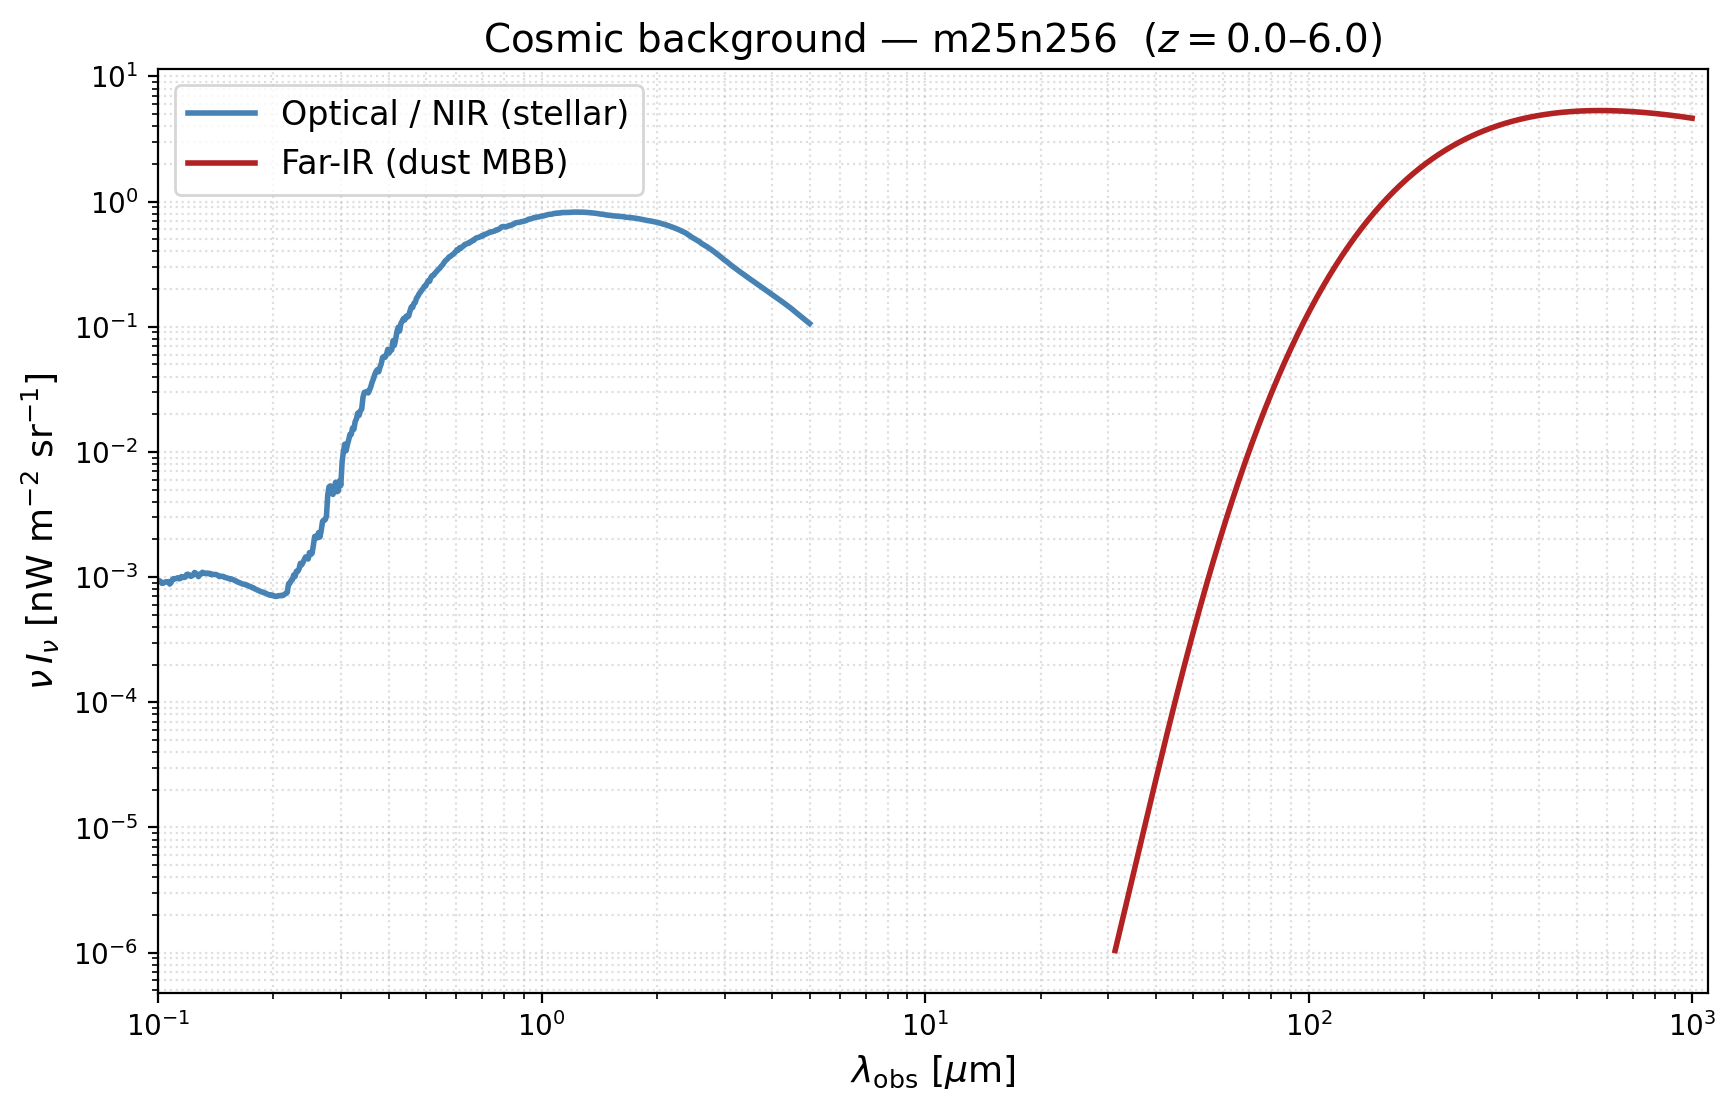
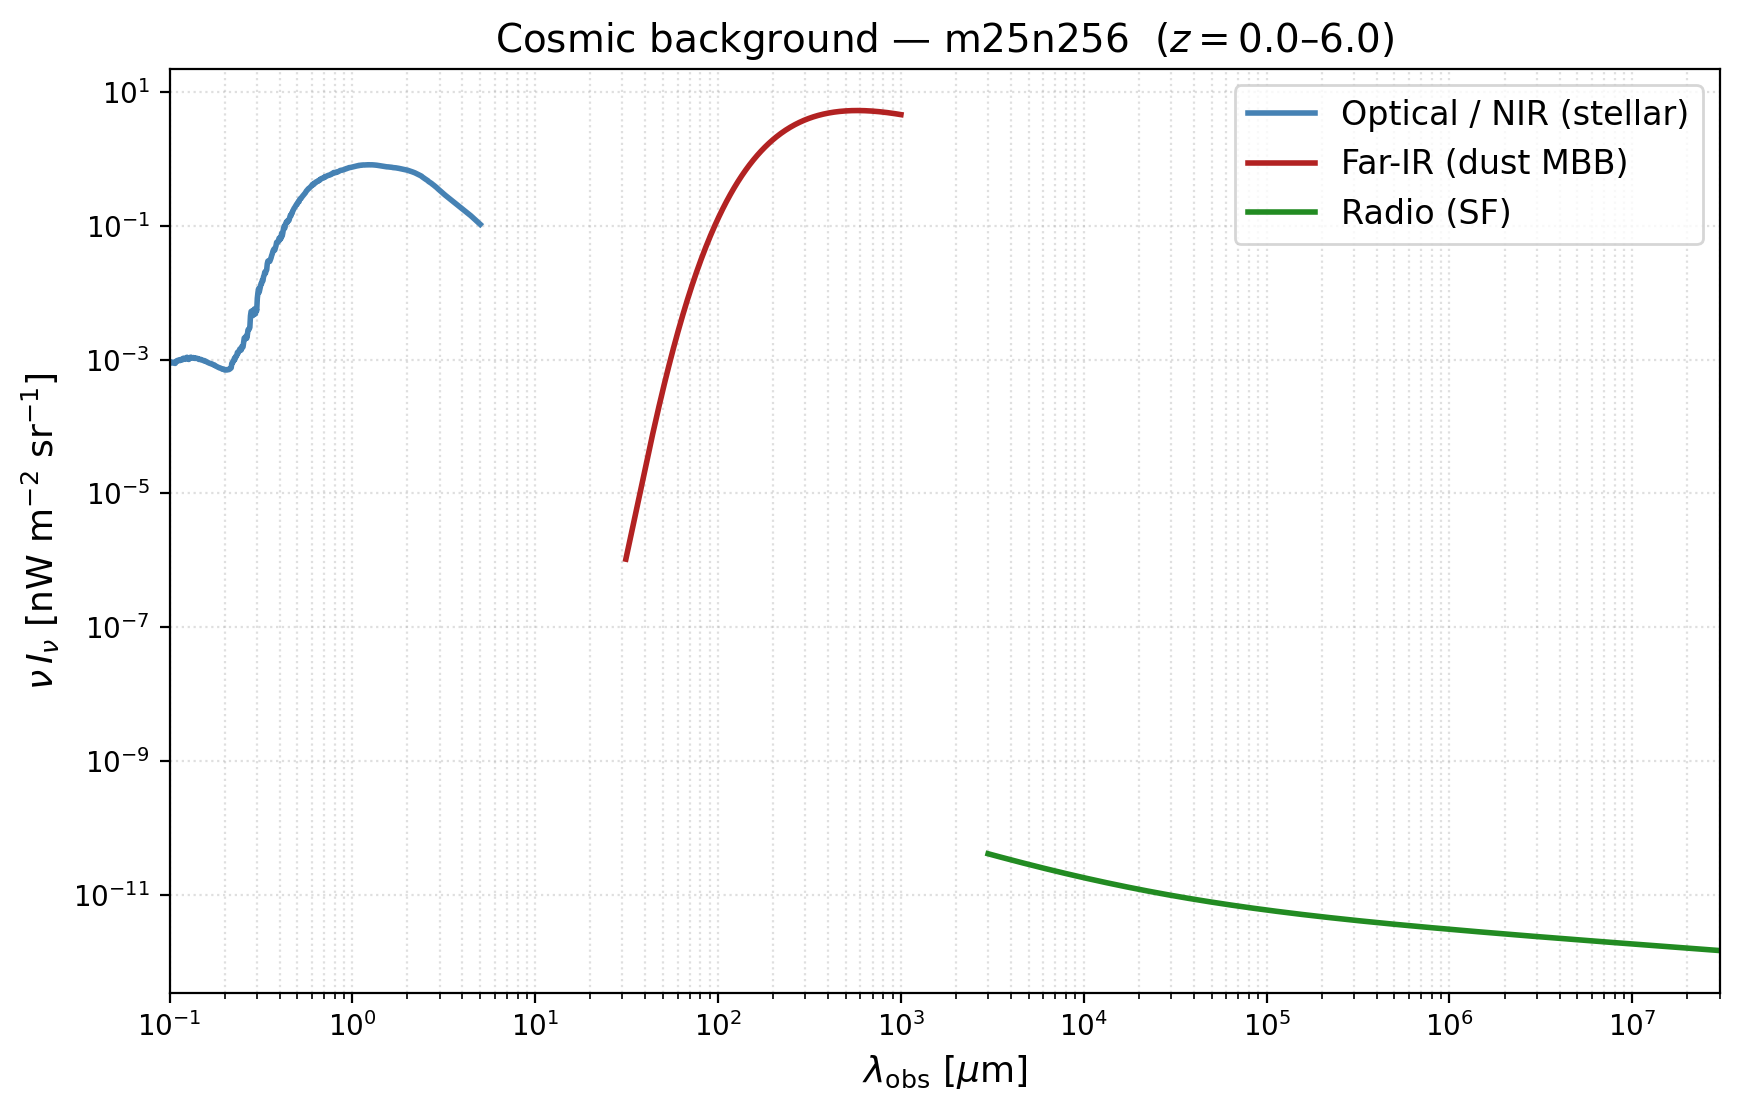
radio SED

diff --git a/src/backgrounds/radio.py b/src/backgrounds/radio.py
@@ -1,0 +1,122 @@
+from pathlib import Path
+import numpy as np
+import h5py
+import astropy.units as u
+import caesar
+
+from src.config import SimConfig
+from src.utils import get_redshift
+from src.physics.radio import radio_luminosity_sf, CHABRIER_FRAC_M5
+from src.lightcone.generate import generate_lightcone
+
+LIGHTCONE_DIR = Path(__file__).resolve().parent.parent.parent / "data" / "lightcones"
+
+def _redshift_for_snap(cfg, snap):
+    """Get redshift for a snapshot, trying HDF5 attrs then Caesar."""
+    hdf5 = cfg.hdf5_path(snap)
+    if hdf5.exists():
+        with h5py.File(hdf5, "r") as f:
+            if "redshift" in f.attrs:
+                return float(f.attrs["redshift"])
+    caesar_f = cfg.caesar_path(snap)
+    if caesar_f.exists():
+        obj = caesar.load(str(caesar_f))
+        return get_redshift(obj)
+    raise FileNotFoundError(f"Cannot get redshift for snap {snap}")
+
+
+def build_lightcone(cfg, area_deg2=1.0, z_min=0.0, z_max=3.0):
+    """Generate or load a cached lightcone."""
+    LIGHTCONE_DIR.mkdir(parents=True, exist_ok=True)
+    lc_path = LIGHTCONE_DIR / f"lc_{cfg.name}_a{area_deg2}_z{z_min}-{z_max}.h5"
+    if lc_path.exists():
+        print(f"Lightcone cached: {lc_path}")
+        return lc_path
+    generate_lightcone(cfg, area_deg2, z_min, z_max, lc_path, verbose=True)
+    return lc_path
+
+
+def lightcone_radio_background(cfg, area_deg2=1.0, z_min=0.0, z_max=3.0,
+                                n_points=500):
+    """
+    Compute the radio cosmic background intensity from star formation
+    using the Condon (1992) / Thomas+2021 prescription.
+
+    For each lightcone galaxy
+    -------------------------
+    1. Read total SFR from the CAESAR HDF5 catalogue.
+    2. Compute  SFR[M >= 5 Msun] = f_IMF × SFR_total   (Chabrier IMF).
+    3. At each *rest-frame* frequency  ν_rest = ν_obs (1+z),
+       evaluate P_ν(ν_rest) via Condon (1992) eqs 10+11.
+    4. Convert to observed flux  F_ν = (1+z) P_ν / (4π d_L²).
+
+    Returns
+    -------
+    nu_obs   : array (Hz)               – observed frequency grid
+    intensity : array (erg/s/cm²/Hz/sr) – specific intensity
+    """
+    lc_path = build_lightcone(cfg, area_deg2, z_min, z_max)
+
+    with h5py.File(lc_path, "r") as lc:
+        gal_z    = lc["z"][:]
+        snap_arr = lc["snap"][:]
+        gal_idx  = lc["galaxy_index"][:]
+
+    # Observed frequency grid: 10 MHz  →  100 GHz  (radio regime)
+    nu_obs_hz = np.logspace(np.log10(1e7), np.log10(1e11), n_points)  # Hz
+    omega_sr  = area_deg2 * (np.pi / 180.0) ** 2
+
+    total_flux = np.zeros_like(nu_obs_hz)   # erg/s/cm²/Hz
+    cache = {}
+
+    unique_snaps = np.unique(snap_arr)
+    print(f"Processing {len(gal_z)} galaxies across "
+          f"{len(unique_snaps)} snapshots (radio) …")
+
+    for snap in unique_snaps:
+        snap  = int(snap)
+        smask = snap_arr == snap
+
+        if snap not in cache:
+            hdf5 = cfg.hdf5_path(snap)
+            if not hdf5.exists():
+                print(f"  WARN: missing {hdf5}, skipping snap {snap}")
+                continue
+            with h5py.File(hdf5, "r") as f:
+                if "galaxy_data/sfr" not in f:
+                    print(f"  WARN: SFR missing in snap {snap}, skipping")
+                    continue
+                sfr = f["galaxy_data/sfr"][:]
+            cache[snap] = sfr
+
+        sfr = cache[snap]
+
+        for gi, gz in zip(gal_idx[smask], gal_z[smask]):
+            gi = int(gi)
+            if gi >= len(sfr):
+                continue
+
+            sfr_gal = sfr[gi]
+            if not (np.isfinite(sfr_gal) and sfr_gal > 0):
+                continue
+
+            # Rest-frame frequencies for observed grid
+            nu_rest_ghz = nu_obs_hz * (1.0 + gz) / 1e9
+
+            # Rest-frame radio luminosity at each frequency (W/Hz)
+            P_nu = radio_luminosity_sf(sfr_gal, nu_rest_ghz)
+
+            # Convert  W/Hz → erg/s/Hz  (1 W = 1e7 erg/s)
+            P_nu_cgs = P_nu * 1e7
+
+            # Observed flux density:  F_ν = (1+z) L_ν / (4π d_L²)
+            d_L  = cfg.cosmology.luminosity_distance(gz).to(u.cm).value
+            flux = (1.0 + gz) * P_nu_cgs / (4.0 * np.pi * d_L ** 2)
+
+            if np.all(np.isfinite(flux)):
+                total_flux += flux
+
+    # Convert summed flux to surface brightness
+    intensity = total_flux / omega_sr
+    print("Done.")
+    return nu_obs_hz, intensity

diff --git a/src/physics/radio.py b/src/physics/radio.py
@@ -1,0 +1,84 @@
+import numpy as np
+from scipy import integrate
+
+def _chabrier_imf(m):
+    """Chabrier (2003) system IMF  ξ(m) = dn/dm."""
+    if m < 1.0:
+        return (0.158 / m) * np.exp(
+            -(np.log10(m) - np.log10(0.079)) ** 2 / (2 * 0.69 ** 2)
+        )
+    # Power-law for m >= 1, normalised for continuity at m = 1
+    A = 0.158 * np.exp(
+        -(np.log10(1.0) - np.log10(0.079)) ** 2 / (2 * 0.69 ** 2)
+    )
+    return A * m ** (-2.3)
+
+
+def chabrier_mass_fraction(m_low=5.0, m_min=0.1, m_max=100.0):
+    """
+    Fraction of total SFR going into stars with M >= m_low
+    for a Chabrier (2003) IMF integrated from m_min to m_max.
+
+    Returns
+    -------
+    f : float   (≈ 0.17 for m_low = 5 M_sun)
+    """
+    mass_weighted = lambda m: m * _chabrier_imf(m)
+    total, _ = integrate.quad(mass_weighted, m_min, m_max)
+    above, _ = integrate.quad(mass_weighted, m_low, m_max)
+    return above / total
+
+
+# Pre-compute once at import time
+CHABRIER_FRAC_M5 = chabrier_mass_fraction(m_low=5.0)
+
+
+# ── Condon1992 radio luminosity ───────────────────────────────
+
+def radio_luminosity_sf(sfr_total, nu_ghz=1.4, f_imf=None):
+    """
+    Star-formation radio luminosity (Condon1992, eqs 10+11 from Thomas2021).
+
+    Parameters
+    ----------
+    sfr_total : float or array
+        Total star formation rate  [M_sun / yr].
+    nu_ghz : float or array
+        Frequency in GHz (default 1.4 GHz).
+    f_imf : float or None
+        Mass fraction of SFR in stars M >= 5 M_sun.
+        If None, uses the Chabrier (2003) value (≈ 0.17).
+
+    Returns
+    -------
+    P_nu : float or array
+        Radio luminosity in W Hz^-1.
+    """
+    if f_imf is None:
+        f_imf = CHABRIER_FRAC_M5
+
+    sfr_m5 = np.asarray(sfr_total) * f_imf
+    nu = np.asarray(nu_ghz, dtype=float)
+
+    P_nonthermal = 5.3e21 * nu ** (-0.8) * sfr_m5     # W Hz^-1
+    P_thermal    = 5.5e20 * nu ** (-0.1) * sfr_m5      # W Hz^-1
+
+    return P_nonthermal + P_thermal
+
+
+def radio_sed_sf(sfr_total, nu_ghz_array, f_imf=None):
+    """
+    Full radio SED from star formation over a frequency grid.
+
+    Parameters
+    ----------
+    sfr_total : float
+        Total SFR  [M_sun / yr].
+    nu_ghz_array : array
+        Frequencies in GHz.
+
+    Returns
+    -------
+    P_nu : array   –  W Hz^-1 at each frequency.
+    """
+    return radio_luminosity_sf(sfr_total, nu_ghz_array, f_imf)

diff --git a/scripts/run_combined.py b/scripts/run_combined.py
@@ -21,6 +21,7 @@ sys.path.insert(0, str(Path(__file__).resolve().parent.parent))
 from src.config import load_config
 from src.backgrounds.optical import lightcone_optical_background
 from src.backgrounds.farIR import lightcone_farIR_background
+from src.backgrounds.radio import lightcone_radio_background
 
 
 def main():
@@ -30,7 +31,7 @@ def main():
                         choices=["m25n256", "m50n512", "m100n1024"])
     parser.add_argument("--area", type=float, default=1.0)
     parser.add_argument("--z_min", type=float, default=0.0)
-    parser.add_argument("--z_max", type=float, default=3.0)
+    parser.add_argument("--z_max", type=float, default=6.0)
     args = parser.parse_args()
 
     cfg = load_config(args.sim)
@@ -50,6 +51,15 @@ def main():
         cfg, area_deg2=args.area, z_min=args.z_min, z_max=args.z_max
     )
     nuInu_fir = lam_fir * I_lam_fir        # λ I_λ = ν I_ν  (erg/s/cm²/sr)
+
+    # ── Radio (star formation) ────────────────────────────────────
+    print("\n=== Radio background (SF, Condon 1992 / Thomas+2021) ===")
+    nu_radio, I_nu_radio = lightcone_radio_background(
+        cfg, area_deg2=args.area, z_min=args.z_min, z_max=args.z_max
+    )
+    lam_radio_um = (c_light / (nu_radio * u.Hz)).to_value(u.AA) * 1e-4  # → µm
+    nuInu_radio  = nu_radio * I_nu_radio
+
 
     # ── Convert to nW m⁻² sr⁻¹ (standard CIB unit) ──────────────
     # 1 erg/s/cm² = 1e-3 W/m² = 1e6 nW/m²
@@ -73,6 +83,8 @@ def main():
               label='Optical / NIR (stellar)')
     ax.loglog(lam_fir_um, fir_plot, lw=2, color='firebrick',
               label='Far-IR (dust MBB)')
+    ax.loglog(lam_radio_um, nuInu_radio, lw=2, color='forestgreen',
+                  label='Radio (SF)')
 
     # Mark crossover if it exists within overlapping range
     lam_min = max(lam_opt_um.min(), lam_fir_um.min())
@@ -104,7 +116,7 @@ def main():
     ax.legend(fontsize=12)
     ax.grid(True, which='both', ls=':', alpha=0.4)
 
-    ax.set_xlim(0.1, 1100)
+    ax.set_xlim(0.1, 3e7)   # 0.1 µm → 30 m
 
     out = Path("figures") / f"combined_bg_{cfg.name}.png"
     out.parent.mkdir(parents=True, exist_ok=True)
